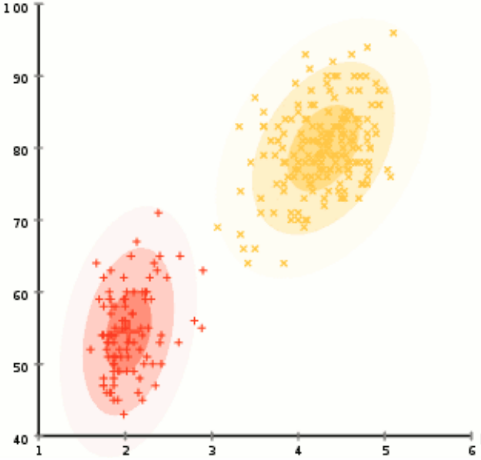
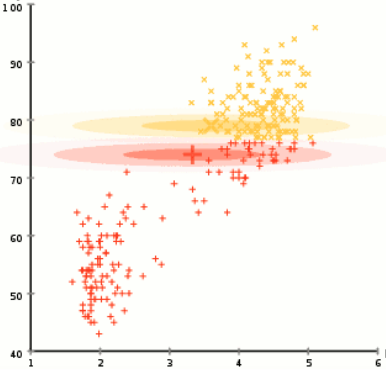
Cleaning

diff --git a/10.tex b/10.tex
@@ -14,7 +14,7 @@ $$P(x_1,\ldots,x_n|y)=P(x_1|y)\cdot\ldots\cdot P(x_n|y);$$
 $$P(x_i|y)=\frac{count(x_i,y)}{count(y)};$$
 [$count(x_i, y)$ -- количество точек из класса $y$ в нашем датасете, у которых $i$-ая фича равна $x_i$, $count(y)$ -- количество всех точек в классе $y$.] To avoid case $count(x_i,y_i)=0$ we assume that there are at least $\alpha$ points of each class with feature $x_i$:
 $$P (x_i|y)=\frac{count(x_i,y)+\alpha}{count(y)+\alpha K}$$
-where $K$ is the number of different values of $i$'th feature.
+where $K$ is the number of classes.
 
 \subsubsection*{Bag of words}
 
@@ -51,12 +51,22 @@ How it works in practise?
 
 \subsubsection*{EM Clustering}
 
-Let's imagine we want to unite points in two clusters. We can assume that point of each cluster distributed by the normal distribution. So the final step of EM algorithm looks like this [pic. 10.1]:\\
-\begin{wrapfigure}{r}{0.33\linewidth}
-	\vspace{-0.5cm}
-  \begin{center}
-    \includegraphics[width=\linewidth]{10a.png}
-    \caption*{(10.1) EM Clustering}
-  \end{center}
-\end{wrapfigure}
+Let's imagine we want to unite points in two clusters. We can assume that point of each cluster distributed by the normal distribution. So the steps of EM algorithm looks like this:\\
+\begin{figure}[H]
+  \centering
+  \begin{tabular}{ccc}
+    \includegraphics[width=0.25\linewidth]{10a.png} & \hspace{0.5cm}
+    \includegraphics[width=0.25\linewidth]{10b.png} & \hspace{0.5cm}
+    \includegraphics[width=0.25\linewidth]{10c.png} \\
+    Step 1 & Step 2 & Step 3 \\
+    & & \\
+    \includegraphics[width=0.25\linewidth]{10d.png} & \hspace{0.5cm}
+    \includegraphics[width=0.25\linewidth]{10e.png} & \hspace{0.5cm}
+    \includegraphics[width=0.25\linewidth]{10f.png} \\
+    Step 4 & Step 5 & Step 6 \\
+  \end{tabular}
+\end{figure}
+
+\subsubsection*{Naive Bayes is a very nice baseline!}
+
 Naive Bayes is a very nice baseline! When you approach a new data task and collect the data, you may find that some complex algorithms don't work. And you don't know: is it a problem with data or with chosen algorithm? So you need a baseline -- something that almost always works. In that case naive Bayes can help you.

diff --git a/main.tex b/main.tex
@@ -19,6 +19,7 @@
 \usepackage{wrapfig} % Обтекание таблиц и картинок текстом
 \usepackage{xcolor} % Кастомные цвета
 \usepackage{hyperref} % Ссылки
+\usepackage{float} % Параметр H для фигур
 
 
 \voffset=-20mm
